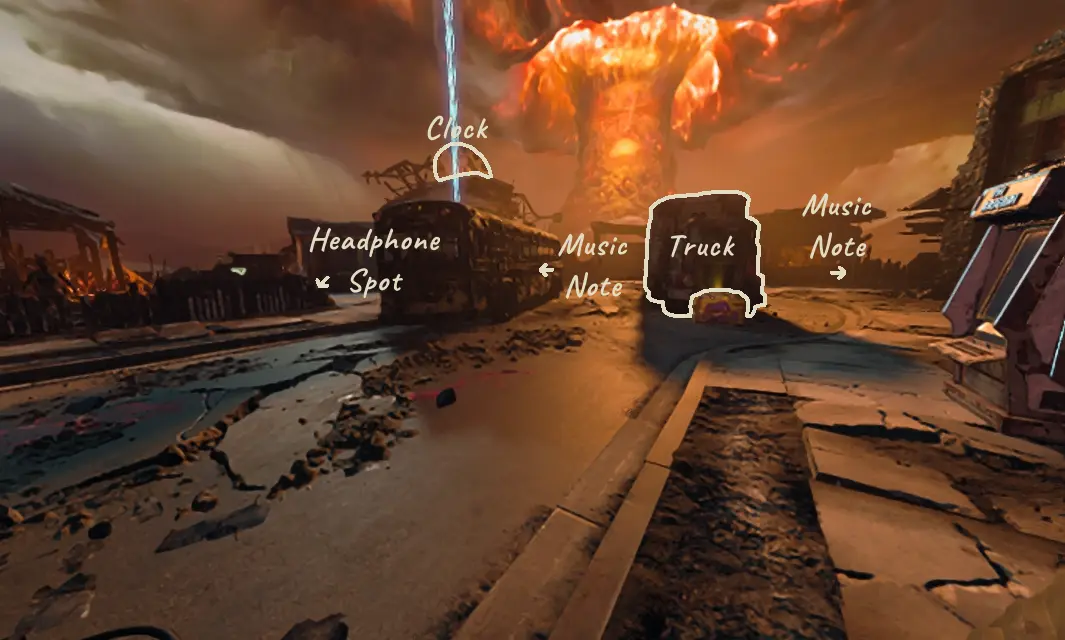
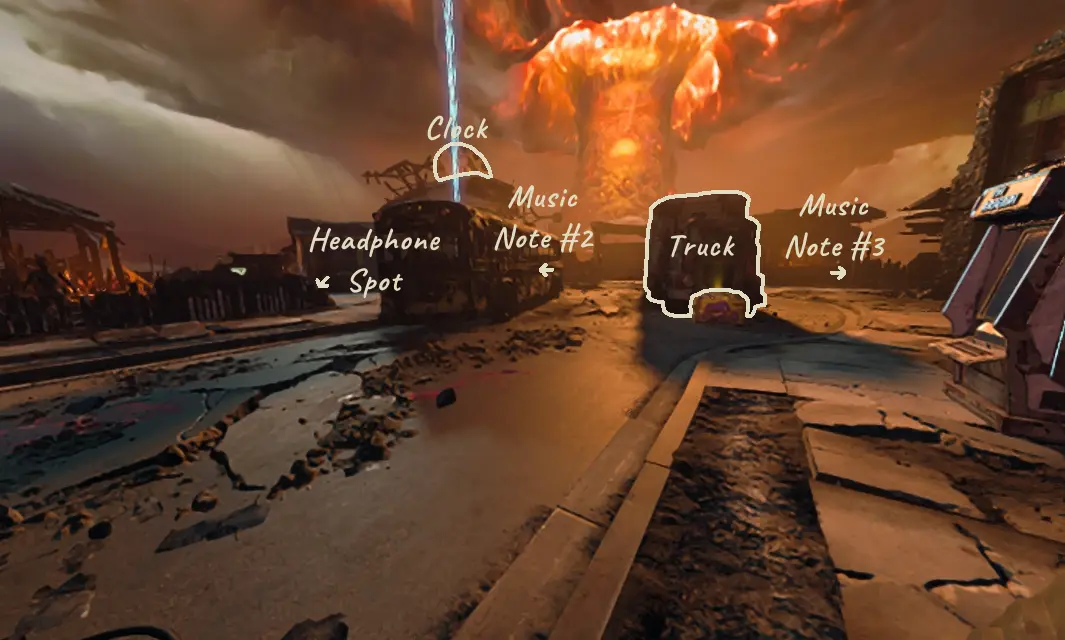
Added more steps to Paradox Junction page - Refactored Boarding.jsx - Updated README.md - Updated images

Changed region(s): [[0.4648, 0.2812, 0.5887, 0.4062], [0.7437, 0.2812, 0.8366, 0.4062], [0.5268, 0.4375, 0.5887, 0.4688]]

diff --git a/src/Paradox.jsx b/src/Paradox.jsx
@@ -18,6 +18,17 @@ const mapCorruptedWall = {
 const Paradox = () => {
     const [corruptedWall, setCorruptedWall] = useState('');
     const [mannequin, setMannequin] = useState(-1);
+    const [musicNotes, setMusicNotes] = useState([...Array(8).fill(-1)]);
+    const [musicNotesNumber, setMusicNotesNumber] = useState([...Array.from({length: 8}, (_, i) => i + 1)]);
+
+    const handleMusicNotes = (position, number) => {
+        setMusicNotes((prev) => {
+            const newNotes = [...prev];
+            newNotes[position] = number;
+            return newNotes;
+        });
+        setMusicNotesNumber((prev) => prev.filter((noteNumber) => noteNumber !== number))
+    };
 
     return (
         <section className='page'>
@@ -166,28 +177,28 @@ const Paradox = () => {
                     <li>Find and Interact with RC-XD Controller</li>
                     <div className='codes wrap'>
                         <div className='side-activity horizontal'>
-                            <button className='image'
-                                style={{
-                                    backgroundImage: 'url(/paradox/labled-yellow-house-garage.webp)'
-                                }}></button>
-                            <button className='symbol long'>Yellow House Garage</button>
+                            <img className='smaller-image'
+                                src='/paradox/labled-yellow-house-garage.webp'
+                                alt='Labled yellow house garage'
+                                decoding='async'
+                                loading='lazy'/>
+                            <button className='symbol fill'>Yellow House Garage</button>
                         </div>
                         <div className='side-activity horizontal'>
-                            <button className='image'
-                                style={{
-                                    backgroundImage: 'url(/paradox/labled-trinity-ave-2.webp)',
-                                    backgroundPosition: 'left'
-                                }}></button>
-                            <button className='symbol long'>Trinity Ave</button>
+                            <img className='smaller-image'
+                                src='/paradox/labled-trinity-ave-2.webp'
+                                alt='Labled trinity ave 2'
+                                decoding='async'
+                                loading='lazy'/>
+                            <button className='symbol fill'>Trinity Ave</button>
                         </div>
                         <div className='side-activity horizontal'>
-                            <button className='image'
-                                style={{
-                                    backgroundImage: 'url(/paradox/labled-green-house-backyard.webp)'
-                                    , backgroundPosition: 'left'
-                                }}
-                                onClick={() => setCorruptedWall('green')}></button>
-                            <button className='symbol long'>Green House Backyard</button>
+                            <img className='smaller-image'
+                                src='/paradox/labled-green-house-backyard.webp'
+                                alt='Labled green house backyard'
+                                decoding='async'
+                                loading='lazy'/>
+                            <button className='symbol fill'>Green House Backyard</button>
                         </div>
                     </div>
                     <li>Use the Ramp to Jump over the Fence and Blow up the Door</li>
@@ -257,27 +268,60 @@ const Paradox = () => {
                     <li>Find Headphones</li>
                     <div className='codes wrap'>
                         <div className='side-activity horizontal'>
-                            <button className='image headphones-yellow'></button>
-                            <button className='symbol long'>Yellow House Backyard</button>
+                            <img className='smaller-image'
+                                src='/paradox/labled-yellow-house-backyard.webp'
+                                alt='Labled yellow house backyard'
+                                decoding='async'
+                                loading='lazy'/>
+                            <button className='symbol fill'>Yellow House Backyard</button>
                         </div>
                         <div className='side-activity horizontal'>
-                            <button className='image headphones-green'></button>
-                            <button className='symbol long'>Green House Upstairs</button>
+                            <img className='smaller-image'
+                                src='/paradox/labled-green-house-upstairs.webp'
+                                alt='Labled green house upstairs'
+                                decoding='async'
+                                loading='lazy'/>
+                            <button className='symbol fill'>Green House Upstairs</button>
                         </div>
                         <div className='side-activity horizontal'>
-                            <button className='image headphones-spawn'></button>
-                            <button className='symbol long'>Spawn</button>
+                            <img className='smaller-image'
+                                src='/paradox/labled-spawn.webp'
+                                alt='Labled spawn'
+                                decoding='async'
+                                loading='lazy'/>
+                            <button className='symbol fill'>Spawn</button>
                         </div>
                     </div>
-                    <li>Find Tortured Zombie
-                        <ul>
-                            <li>Green House Backyard</li>
-                            <li>Yellow House Backyard</li>
-                            <li>Trinity Ave</li>
-                        </ul>
-                    </li>
+                    <li>Find Tortured Zombie</li>
+                    <div className='codes wrap'>
+                        <div className='side-activity horizontal'>
+                            <img className='smaller-image'
+                                src='/paradox/tortured-green-house-backyard.webp'
+                                alt='Tortured green house backyard'
+                                decoding='async'
+                                loading='lazy'/>
+                            <button className='symbol fill'>Green House Backyard</button>
+                        </div>
+                        <div className='side-activity horizontal'>
+                            <img className='smaller-image'
+                                src='/paradox/tortured-yellow-house-backyard.webp'
+                                alt='Tortured yellow house backyard'
+                                decoding='async'
+                                loading='lazy'/>
+                            <button className='symbol fill'>Yellow House Backyard</button>
+                        </div>
+                        <div className='side-activity horizontal'>
+                            <img className='smaller-image'
+                                src='/paradox/tortured-trinity-ave.webp'
+                                alt='Tortured trinity ave'
+                                decoding='async'
+                                loading='lazy'/>
+                            <button className='symbol fill'>Trinity Ave</button>
+                        </div>
+                    </div>
                     <li>Bring and Kill Tortured Zombie at Truck</li>
                     <li>Travel to Green House Backyard</li>
+                    <li>Find Piano Teacher</li>
                     <li>Use Brain Rot on Piano Teacher</li>
                     <li>Wait for Piano Teacher to go to the Piano</li>
                     <img className='big-image'
@@ -285,23 +329,107 @@ const Paradox = () => {
                         alt='Labled green house'
                         decoding='async'
                         loading='lazy'/>
-                    <li>Teleport to Past</li>
-                    <li>Travel to Trinity Ave</li>
-                    <li>Plant Seeds</li>
-                    <li>Get Kills with Wonder Weapon</li>
-                    <li>Teleport to Future</li>
+                    <li>Teleport to the Past</li>
                     <li>Travel to Trinity Ave</li>
                     <img className='big-image'
                         src='/paradox/labled-trinity-ave-1.webp'
                         alt='Labled trinity ave 1'
                         decoding='async'
                         loading='lazy'/>
+                    <li>Plant Seeds</li>
+                    <li>Get Kills with Wonder Weapon</li>
+                    <li>Teleport to the Future</li>
+                    <li>Travel to Trinity Ave</li>
                     <li>Tomahawk the Tree 3 times</li>
                     <li>Grab Firewood</li>
                     <li>Shoot the top of the Speaker Pole</li>
                     <li>Activate Wisp Tea</li>
                     <li>Grab Goggles</li>
                     <li><span className='note-tortured-zombie'>DO TORTURED ZOMBIE IF YOU SEE ONE</span></li>
+                    <li>Interact with 8 Blue Music Notes in order</li>
+                    <div className='codes wrap'>
+                        <div className='side-activity horizontal'>
+                            <img className='smaller-image'
+                                src='/paradox/labled-green-house-backyard.webp'
+                                alt='Labled green house backyard'
+                                decoding='async'
+                                loading='lazy'/>
+                            <button className='symbol fill'>Green House Backyard</button>
+                        </div>
+                        <div className='side-activity horizontal'>
+                            <img className='smaller-image'
+                                src='/paradox/labled-spawn.webp'
+                                alt='Labled spawn'
+                                decoding='async'
+                                loading='lazy'/>
+                            <button className='symbol fill'>Spawn</button>
+                        </div>
+                        <div className='side-activity horizontal'>
+                            <img className='smaller-image'
+                                src='/paradox/labled-yellow-house-backyard.webp'
+                                alt='Labled yellow house backyard'
+                                decoding='async'
+                                loading='lazy'/>
+                            <button className='symbol fill'>Yellow House Backyard</button>
+                        </div>
+                    </div>
+                    <div className='codes wrap'>
+                        <div className='side-activity horizontal'>
+                            <img className='smaller-image'
+                                src='/paradox/labled-trinity-ave-2.webp'
+                                alt='Labled trinity ave 2'
+                                decoding='async'
+                                loading='lazy'/>
+                            <button className='symbol fill'>Trinity Ave</button>
+                        </div>
+                        <div className='side-activity horizontal'>
+                            <img className='smaller-image'
+                                src='/paradox/labled-trinity-ave-1.webp'
+                                alt='Labled trinity ave 1'
+                                decoding='async'
+                                loading='lazy'/>
+                            <button className='symbol fill'>Trinity Ave</button>
+                        </div>
+                    </div>
+                    <img className='map'
+                        src='/paradox/music-note-helper.webp'
+                        alt='Labled trinity ave 1'
+                        decoding='async'
+                        loading='lazy'/>
+                    {[...Array(8).keys()].map((numberNote) => {
+                        return (musicNotes[numberNote] === -1)
+                            ? <div className='codes'
+                                key={`music-note-${numberNote}`}>
+                                <button className='symbol long'>Music Note #{numberNote + 1}</button>
+                                {musicNotesNumber.map((number) => {
+                                    return <button className='symbol'
+                                        onClick={() => handleMusicNotes(numberNote, number)}
+                                        key={`music-note-buttons-${numberNote}-${number}`}>
+                                        {number}
+                                    </button>
+                                })}
+                            </div>
+                            : null
+                    })}
+                    <li>Interact in order.</li>
+                    <div className='codes wrap'>
+                        {[...Array(8).keys()].map((number) => {
+                            return <button className='symbol'
+                                key={`music-note-number-${number}`}>
+                                #{number + 1}
+                            </button>
+                        })}
+                    </div>
+                    <div className='codes wrap'>
+                        {musicNotes.map((number, numberIndex) => {
+                            return <button className='symbol'
+                                key={`music-note-order-number-${numberIndex}`}>
+                                {number}
+                            </button>
+                        })}
+                    </div>
+                    <li>Bring and Kill Final Tortured Mimic to Truck</li>
+                    <li>Teleport to the Past</li>
                 </ol>
             </div>
         </section>

diff --git a/src/Boarding.jsx b/src/Boarding.jsx
@@ -2,47 +2,46 @@ import { memo, useState } from 'react';
 import { useNavigate } from 'react-router';
 
 const Boarding = ({ setterSolo, setterKnower }) => {
-    const [settedSolo, setSettedSolo] = useState(false);
-    const [settedKnower, setSettedKnower] = useState(false);
+    const [setted, setSetted] = useState({
+        solo: false,
+        knower: false,
+    });
 
     const navigate = useNavigate();
 
-    const handleSolo = (boolean) => {
-        setSettedSolo(true);
-        setterSolo(boolean);
+    const handleAnswer = (type, boolean) => {
+        setSetted((prev) => {
+            const newSetted = { ...prev, [type]: true };
+            if (Object.values(newSetted).every(Boolean)) navigate('aotd');
+            return newSetted;
+        });
 
-        if (settedKnower) navigate('aotd');
-    };
-
-    const handleKnower = (boolean) => {
-        setSettedKnower(true);
-        setterKnower(boolean);
-
-        if (settedSolo) navigate('aotd');
+        if (type === 'solo') setterSolo(boolean);
+        if (type === 'knower') setterKnower(boolean);
     };
 
     return (
         <section className='boarding'>
-            {(settedSolo)
+            {(setted.solo)
                 ? <></>
                 : <>
                     <span className='title'>Are you solo?</span>
                     <div className='choices'>
                         <button className='symbol'
-                            onClick={() => handleSolo(true)}>Yes</button>
+                            onClick={() => handleAnswer('solo', true)}>Yes</button>
                         <button className='symbol'
-                            onClick={() => handleSolo(false)}>No</button>
+                            onClick={() => handleAnswer('solo', false)}>No</button>
                     </div>
                 </>}
-            {(settedKnower)
+            {(setted.knower)
                 ? <></>
                 : <>
                     <span className='title'>Do you know what to do?</span>
                     <div className='choices'>
                         <button className='symbol'
-                            onClick={() => handleKnower(true)}>Yes</button>
+                            onClick={() => handleAnswer('knower', true)}>Yes</button>
                         <button className='symbol'
-                            onClick={() => handleKnower(false)}>No</button>
+                            onClick={() => handleAnswer('knower', false)}>No</button>
                     </div>
                 </>}
         </section>

diff --git a/src/Footer.jsx b/src/Footer.jsx
@@ -9,7 +9,7 @@ const Footer = () => {
                 <span>Background images from pngtree</span>
                 <span>&#8226;</span>
                 <div>
-                    <a href='https://pndgtree.com/freepng/starry-night-sky-a-outer-space-transparent-background-with-a-star-field-texture-overlay_15229671.html'>Sky</a>
+                    <a href='https://pngtree.com/freepng/starry-night-sky-a-outer-space-transparent-background-with-a-star-field-texture-overlay_15229671.html'>Sky</a>
                     <span>&#8226;</span>
                     <a href='https://pngtree.com/freepng/white-fog-background_7961573.html'>Fog</a>
                     <span>&#8226;</span>

diff --git a/src/Hotbar.scss b/src/Hotbar.scss
@@ -113,6 +113,10 @@ button {
         &.long {
             width: 12rem;
         }
+
+        &.fill {
+            width: 100%;
+        }
     }
 
     &.image {
@@ -517,6 +521,13 @@ button {
 .small-image {
     @extend .big-image;
     width: 26.7rem;
+}
+
+.smaller-image {
+    @extend .big-image;
+    width: 17.4rem;
+    height: 14rem;
+    margin: 0;
 }
 
 .tomahawk {

diff --git a/README.md b/README.md
@@ -1,9 +1,11 @@
 # [Zominerary](https://zominerary.vercel.app/)
 Call of Duty zombies easter egg helper.
 
-## Available guides
+The main focus of the helper is to encourage exploring and figuring out things yourself. It tells you what to do, but some steps are vague. Images are provided to assist navigation.
+
+This is for people who prefer a written guide and likes the ideas presented above.
+
+## Available Guides
 ### Black Ops 7
 - Ashes of the Damned
 - Astra Malorum
-- Kowakujo
-- Super Easter Egg
